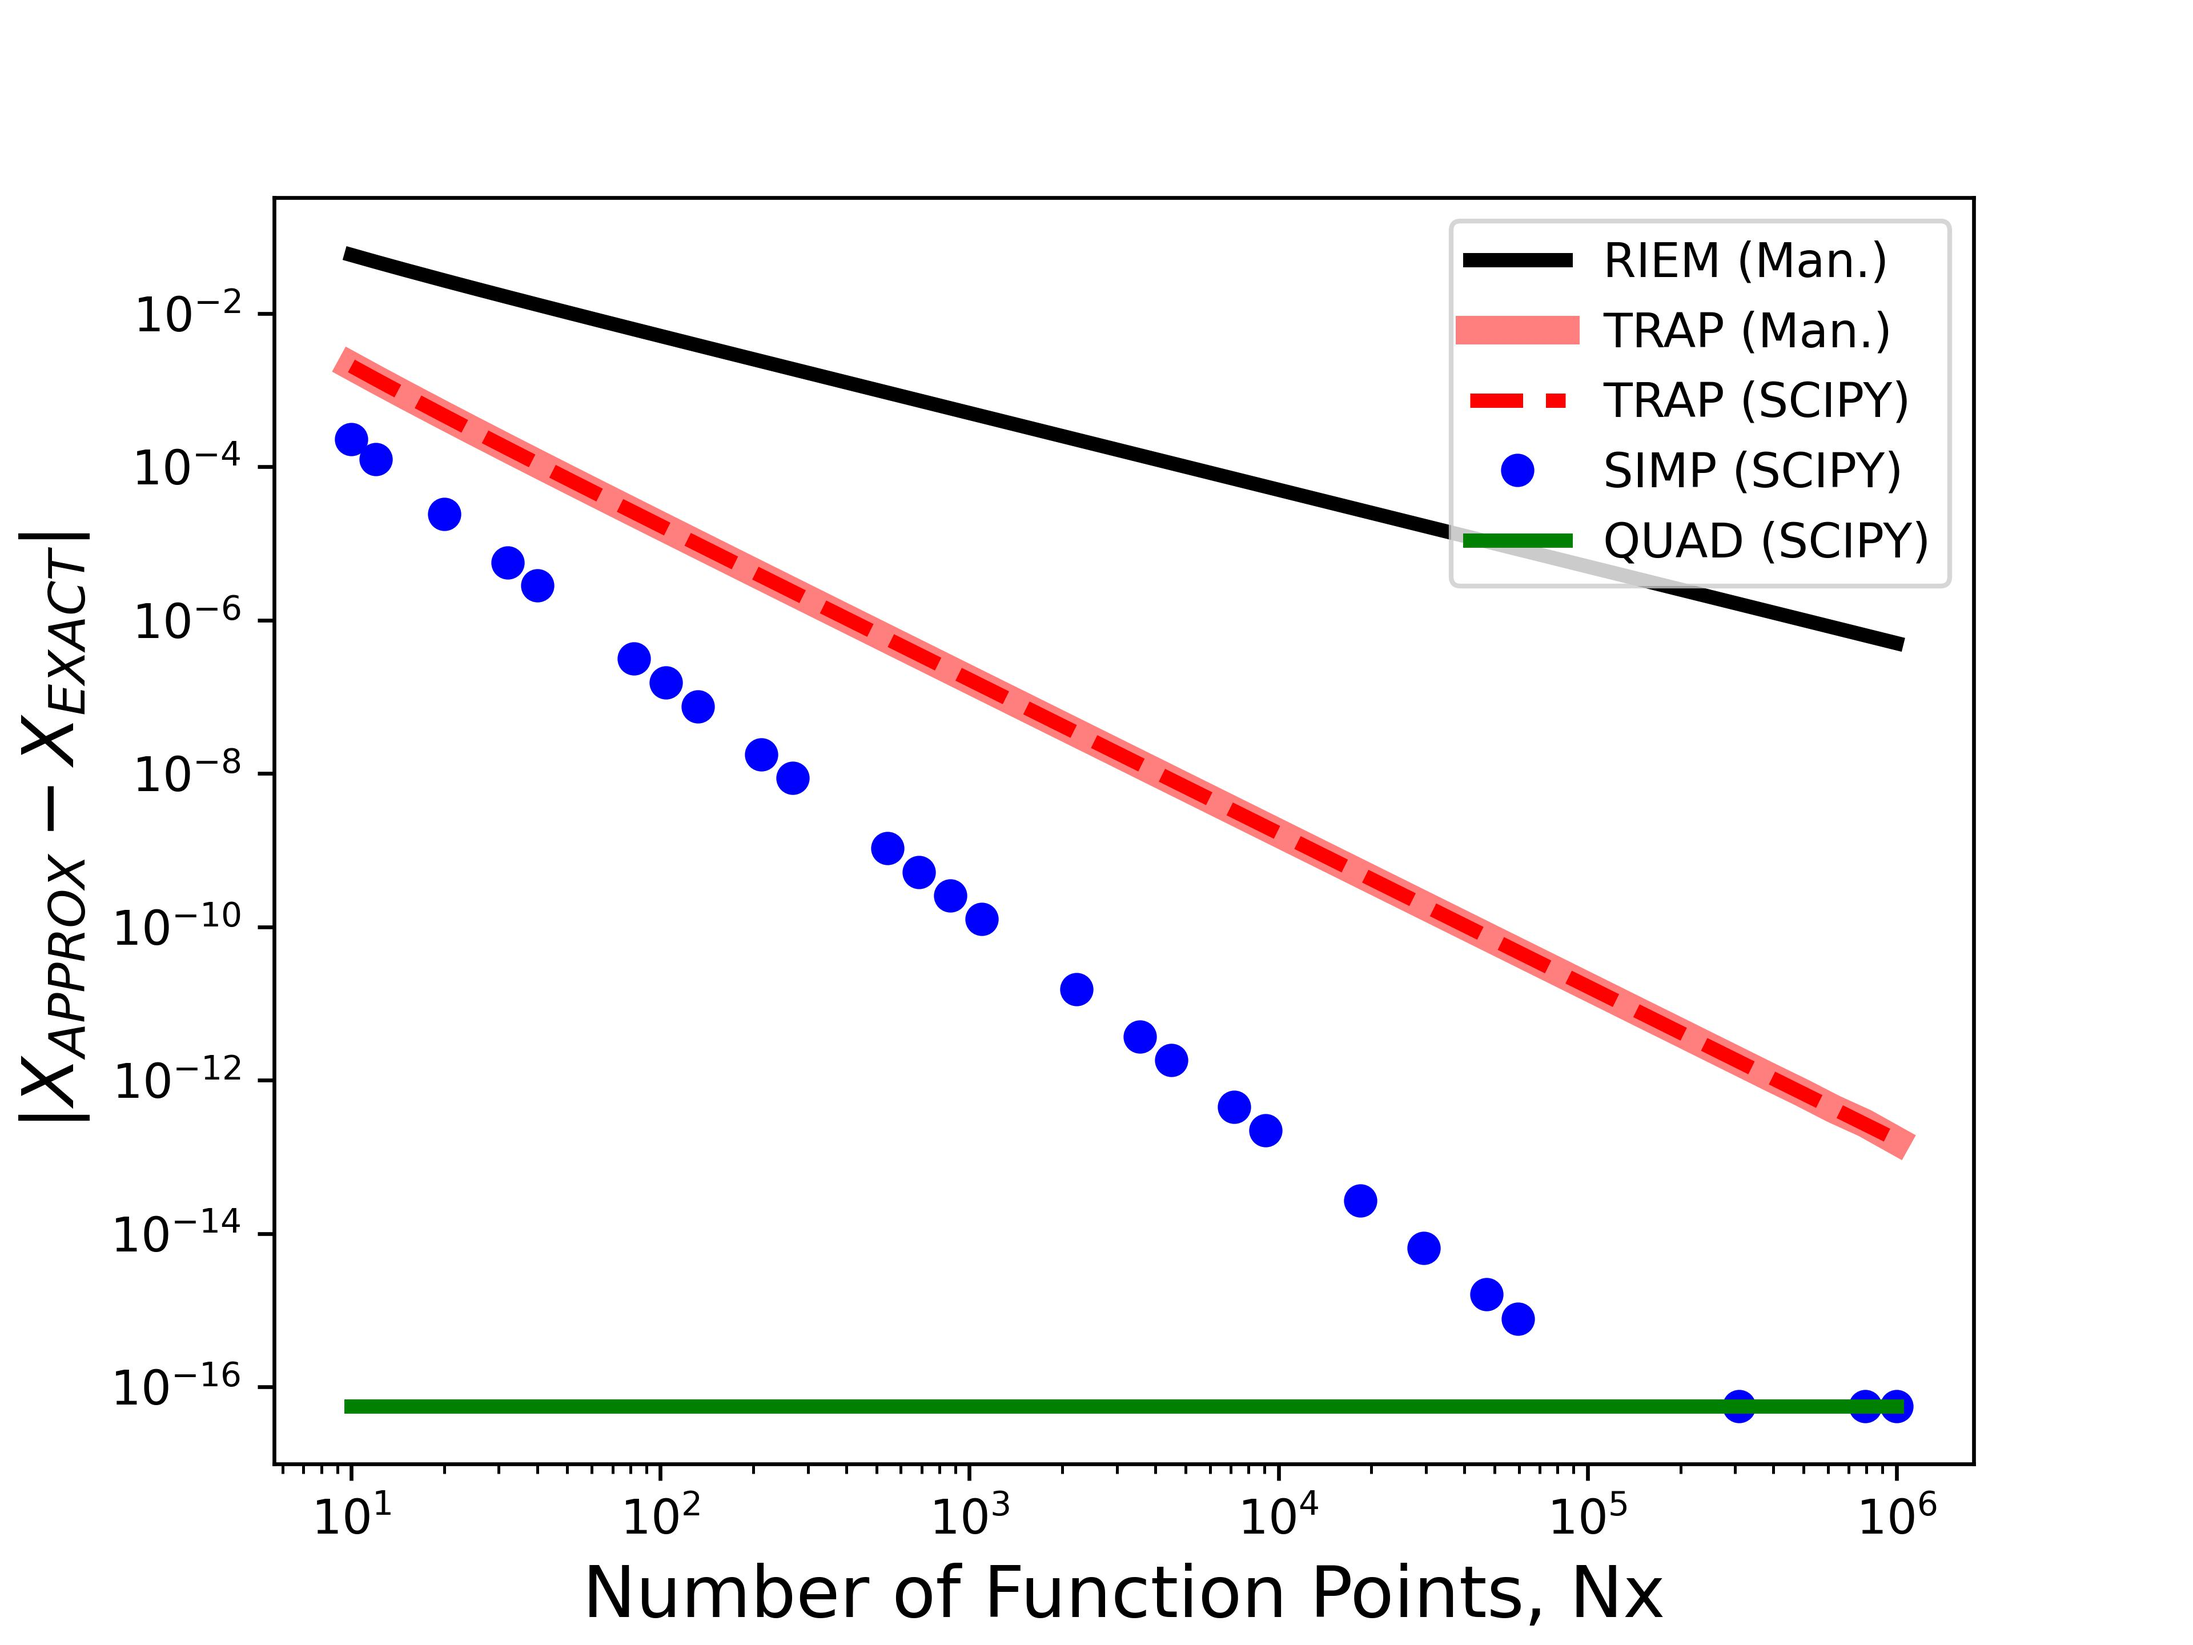
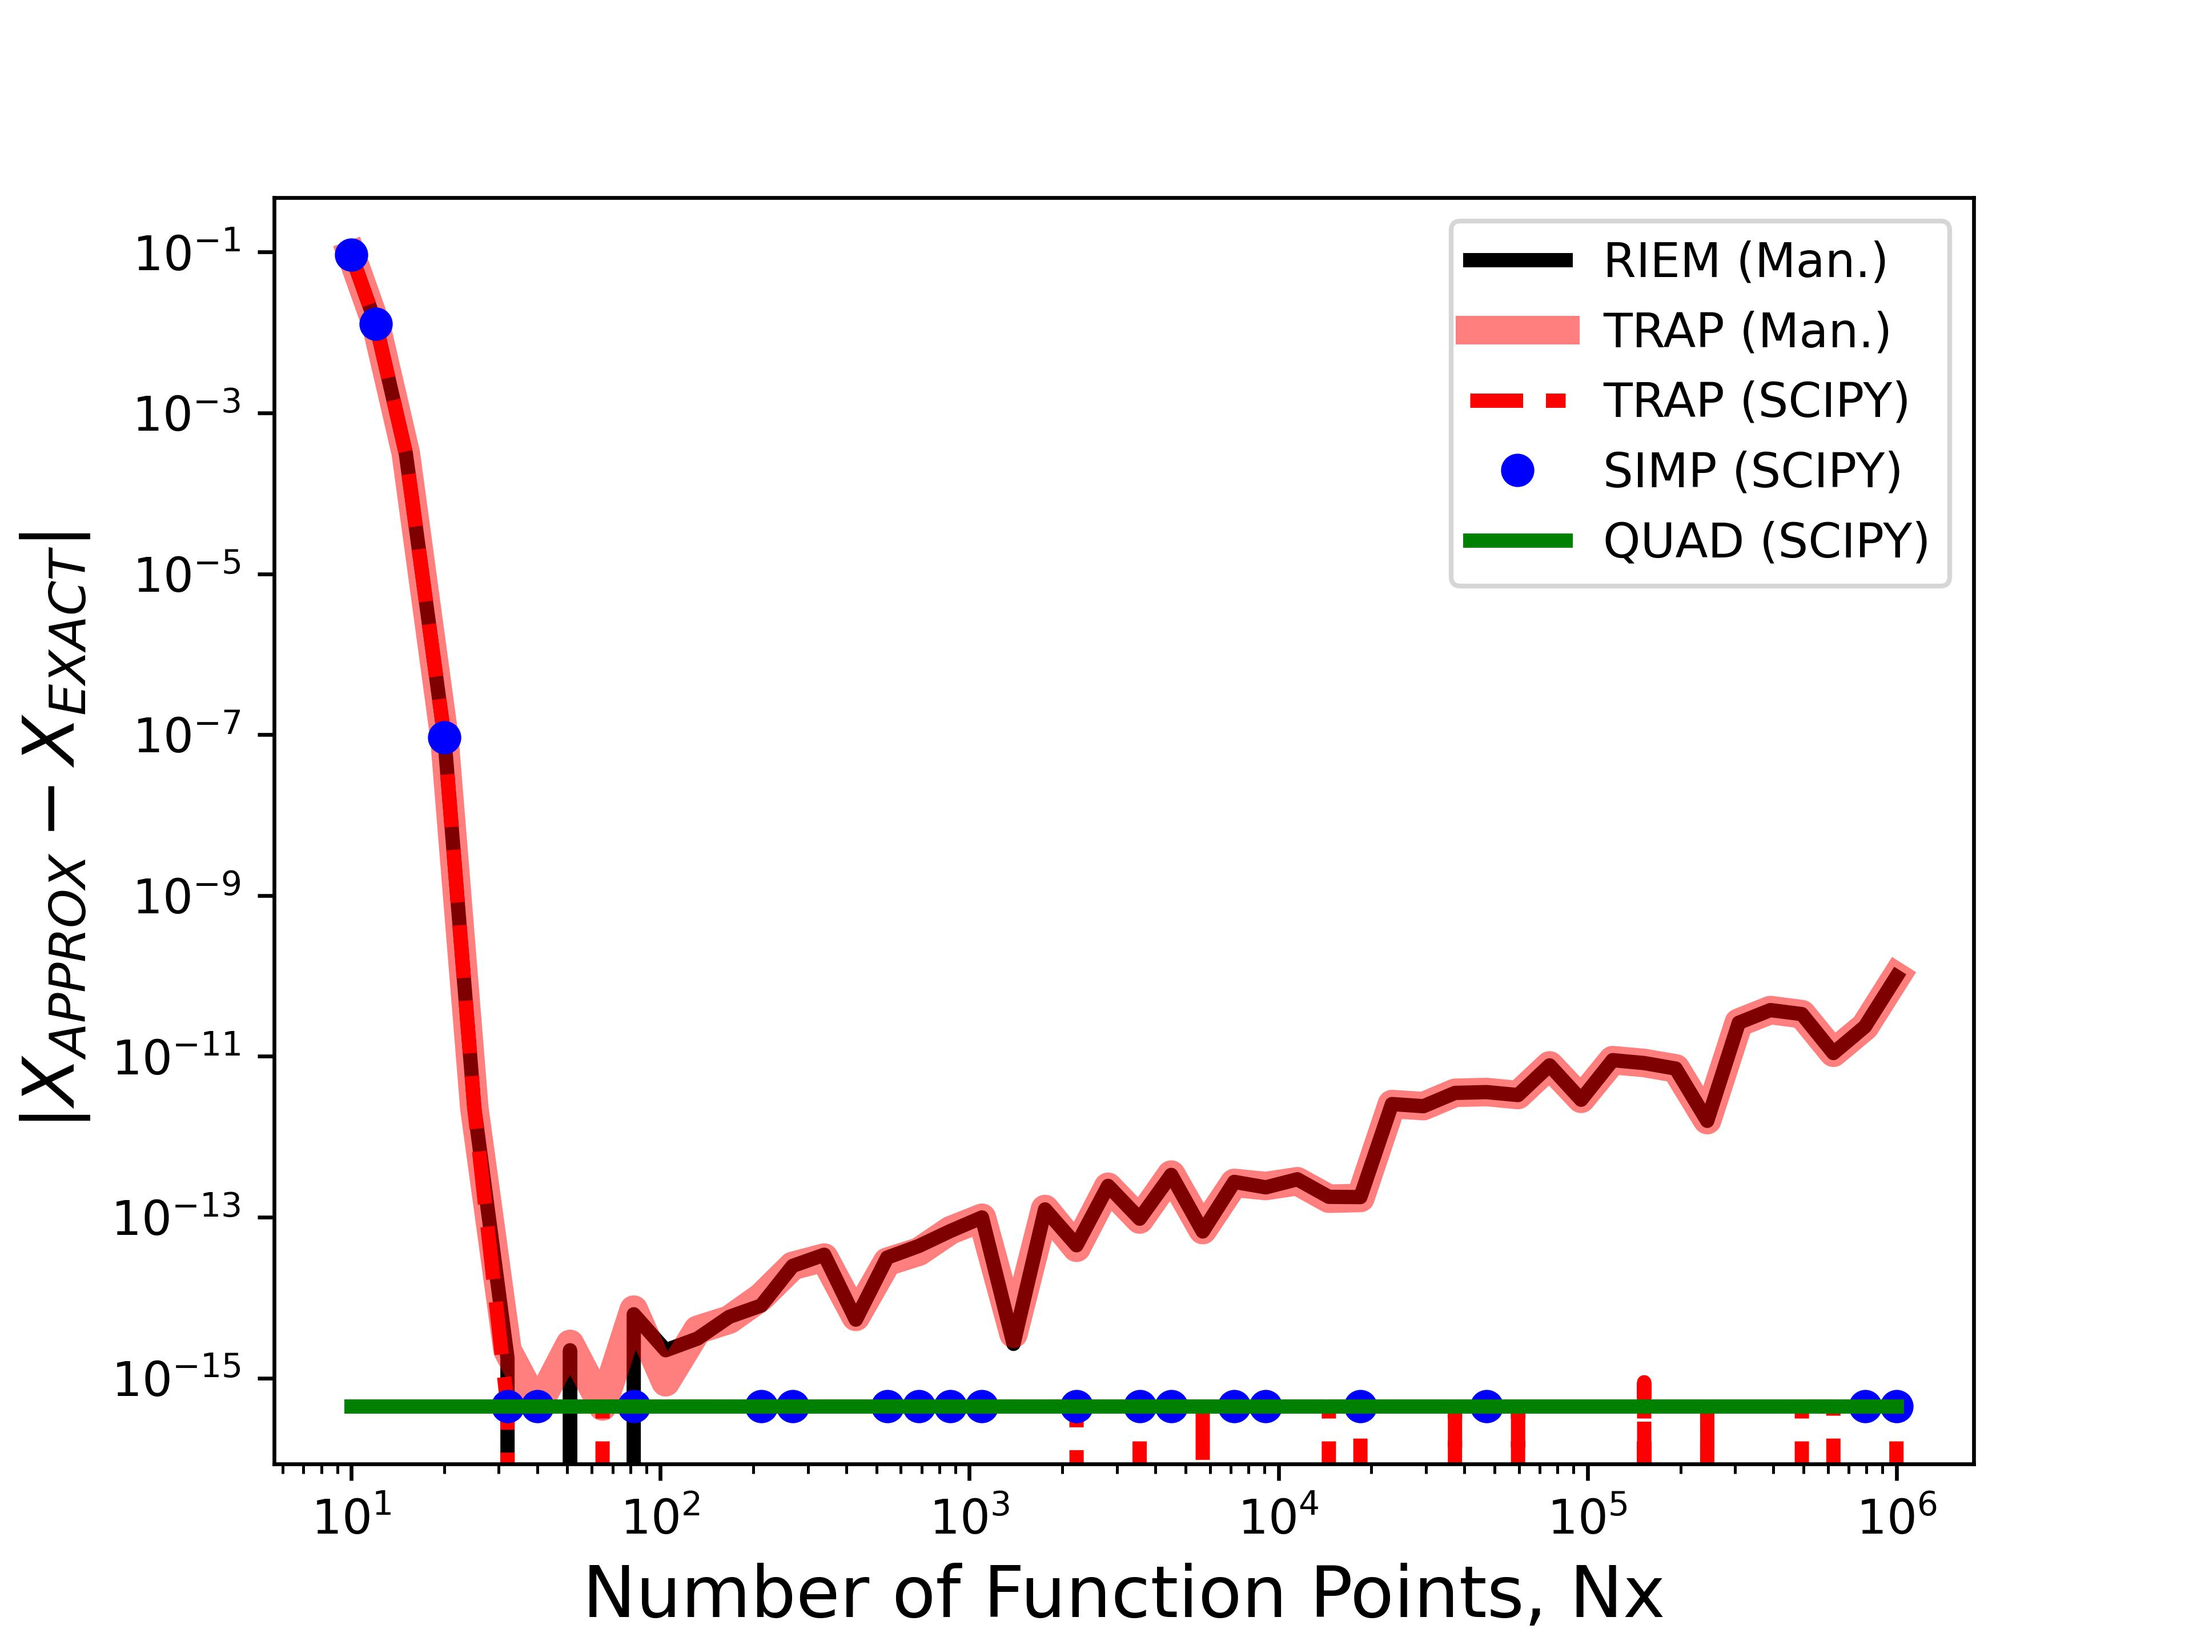
Updated Chapter 3 solutions

diff --git a/homeworks/solutions/Chapter_3/HMWK_3.3.2_Overlap_Matrix.py b/homeworks/solutions/Chapter_3/HMWK_3.3.2_Overlap_Matrix.py
@@ -1,0 +1,72 @@
+import numpy as np
+from scipy.special import hermite
+
+def S_2x2():
+    # Define grid and spacing
+    X     = np.linspace( -20,20,10**4 )
+    dX    = X[1] - X[0]
+
+    # Get the Hermite polynomials for ground (0) and excited (1) state
+    H_0   = hermite(0) # This is a function. Need to call it yet.
+    H_1   = hermite(1) # This is a function. Need to call it yet.
+
+    # Get wavefunctions for ground (0) and excited (1) states
+    PSI_0 = np.exp( -X**2 / 2 ) * H_0(X)
+    PSI_1 = np.exp( -X**2 / 2 ) * H_1(X)
+
+    # Construct overlap matrix for ground (0) and excited (1) states
+    S = np.zeros((2,2))
+    S[0,0] = np.sum( PSI_0 ** 2 ) * dX
+    S[1,1] = np.sum( PSI_1 ** 2 ) * dX
+    S[0,1] = np.sum( PSI_0 * PSI_1 ) * dX
+    S[1,0] = S[0,1] # Overlap matrix must be symmetric
+    print( "Overlap Matrix (Before Normalization):\n", np.round(S,4) )
+
+    # Normalize the wavefunctions
+    PSI_0 /= np.sqrt( S[0,0] )
+    PSI_1 /= np.sqrt( S[1,1] )
+
+    # Reconstruct overlap matrix
+    S = np.zeros((2,2))
+    S[0,0] = np.sum( PSI_0 ** 2 ) * dX
+    S[1,1] = np.sum( PSI_1 ** 2 ) * dX
+    S[0,1] = np.sum( PSI_0 * PSI_1 ) * dX
+    S[1,0] = S[0,1] # Overlap matrix must be symmetric
+    print( "Overlap Matrix (After Normalization):\n", np.round(S,4) )
+
+
+def S_NxN( N ):
+    # Define grid and spacing
+    X     = np.linspace( -20,20,10**4 )
+    dX    = X[1] - X[0]
+
+    PSI_N = np.zeros(( N, len(X) ))
+    S     = np.zeros(( N, N ))
+    for n in range( N ):
+        for m in range( N ):
+            # Get the Hermite polynomials for ground (0) and excited (1) state
+            H_n   = hermite(n) # This is a function. Need to call it yet.
+            H_m   = hermite(m) # This is a function. Need to call it yet.
+
+            # Get wavefunctions for ground (0) and excited (1) states
+            PSI_n = np.exp( -X**2 / 2 ) * H_n(X)
+            PSI_m = np.exp( -X**2 / 2 ) * H_m(X)
+
+            # Normalize both wavefunctions
+            PSI_n /= np.sqrt( np.sum( PSI_n **2 ) * dX )
+            PSI_m /= np.sqrt( np.sum( PSI_m **2 ) * dX )
+
+            # Construct overlap matrix for ground (0) and excited (1) states
+            S[n,m] = np.sum( PSI_n * PSI_m ) * dX
+            print( n,m,np.round(S[n,m],4) )
+
+
+    print( np.round(S,4) )
+
+def main():
+    S_2x2()
+    S_NxN( 5 )
+
+if ( __name__ == "__main__" ):
+    main()
+

diff --git a/codes/Chapter_3/3_Numerical_Integration.py b/codes/Chapter_3/3_Numerical_Integration.py
@@ -11,14 +11,14 @@ def get_globals():
     global XMIN, XMAX, DATA_DIR
 
     """Parabola"""
-    XMIN = 0
-    XMAX = 1
+    #XMIN = 0
+    #XMAX = 1
     """Sine"""
     #XMIN = 0
     #XMAX = 1
     """Gaussian"""
-    #XMIN = -10
-    #XMAX = 10
+    XMIN = -10
+    XMAX = 10
 
 
     DATA_DIR = "3_PLOTS_DATA"
@@ -28,20 +28,20 @@ def get_f_x( x ):
         """
         'x' can be number or array
         """
-        return x ** 2
+        #return x ** 2
         #return np.sin(2 * np.pi * x)
-        #return np.exp(-x**2 / 2)
+        return np.exp(-x**2 / 2)
 
 def get_exact_integral():
-    return 1/3
+    #return 1/3
     #return 0.0
-    #return np.sqrt(2 * np.pi)
+    return np.sqrt(2 * np.pi)
 ################# END USER INPUT #################
 
 
 def plot_Riem_Trap():
     Nx_fine     = 1000
-    Nx_coarse   = 10
+    Nx_coarse   = 25
     GRID_fine   = np.linspace( XMIN,XMAX,Nx_fine ) # START, END, NPOINTS  
     GRID_coarse = np.linspace( XMIN,XMAX,Nx_coarse ) # START, END, NPOINTS  
     f_x_fine    = get_f_x( GRID_fine )
